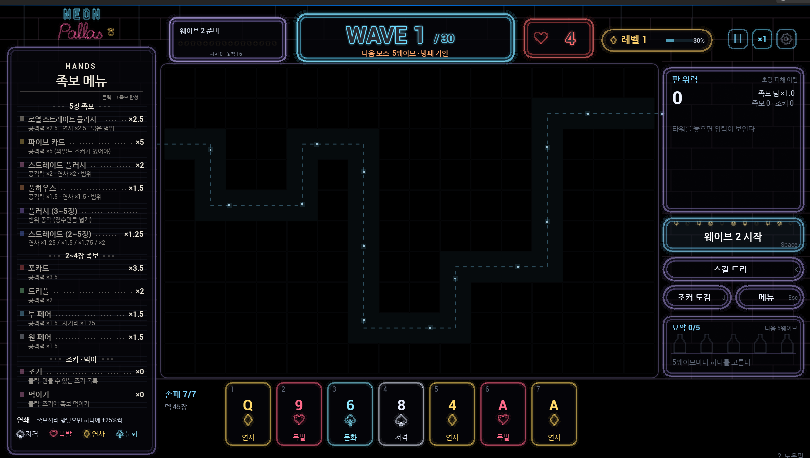
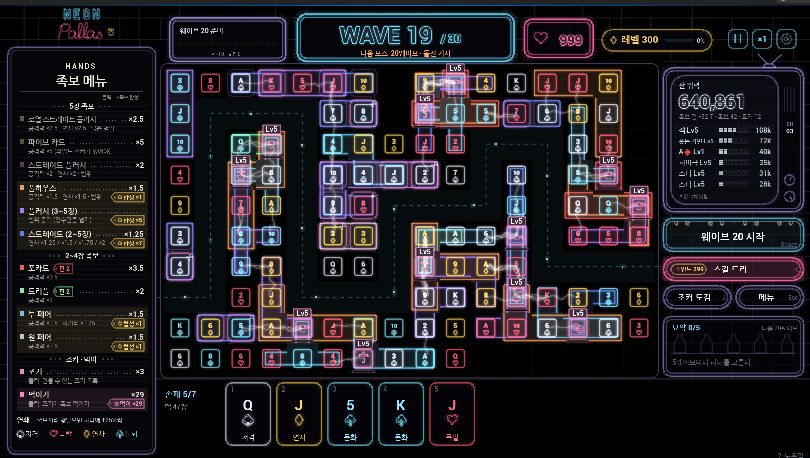
Power card as a black-and-white CRT TV: antenna, knobs, mono phosphor text, block bars, scanlines, rolling band, noise (D-279)

diff --git a/Source/ProjectB/PDBoardPaint.cpp b/Source/ProjectB/PDBoardPaint.cpp
@@ -2033,38 +2033,76 @@ void SPDBoardWidget::PaintPanels(FCanvas& C) const
 		C.Lines(Ro, FLinearColor(1.f, 1.f, 1.f, 0.3f * B), 0.6f); // 흰 심 (D-275)
 		C.Glow(Ri, FLinearColor(Col.R * B * 0.8f, Col.G * B * 0.8f, Col.B * B * 0.8f, 1.f), 1.1f, 0.45f * B);
 	};
-	C.Box(RX, FY, PW, PowCardH, Hex(TEXT("06060b"), 0.6f));
-	Frame2(RX, FY, PW, PowCardH, 12.f, LavP, 0.7f);
-	C.Text(TEXT("판 위력"), RX + 14.f, FY + 22.f, UiTitle, 13.f, 0, true);
-	if (PowerRef > 0.f && PowerSum > 0.f) // 이번 웨이브 시작 때보다 몇 % (위쪽 띠에서 옮김, D-163)
+	// ---- 판 위력 = 흑백 TV (D-279, CRT 시안 D): 연보라 TV 틀 + 토끼 귀 안테나 + 손잡이, 화면은 푸르스름한 흰 형광 한 색
+	//      큰 숫자(속 빈 네온) · 족보 덤 · 순위(이름 + 블록 칸 막대 + 초당 피해), 주사선 · 가장자리 어둡게 · 굴러가는 밝은 띠 · 잡음 점
 	{
-		const float Pct = (PowerSum / PowerRef - 1.f) * 100.f;
-		if (FMath::Abs(Pct) >= 1.f) C.Text(FString::Printf(TEXT("%s%.0f%%"), Pct > 0.f ? TEXT("+") : TEXT(""), Pct), RX + 14.f, FY + 76.f, Pct > 0.f ? Green : Hex(TEXT("ff6a6a")), 10.f, 0, true);
-	}
-	C.Text(TEXT("초당 피해 어림"), RX + PW - 14.f, FY + 22.f, Dim, 9.f, 2);
-	C.Text(CommaNum(FMath::RoundToInt(PowerSum)), RX + 14.f, FY + 58.f, UiValue, 28.f, 0, true, 112.f);
-	{
-		int32 Jokers = 0;
-		for (const auto& KV : G.Towers) Jokers += KV.second.IsJoker();
-		C.Text(TrF(TEXT("족보 덤 ×%.1f"), PowerGain), RX + PW - 14.f, FY + 44.f, Fg, 10.f, 2, false, 90.f);
-		C.Text(TrF(TEXT("족보 %d · 조커 %d"), (int32)G.Synergies.size(), Jokers), RX + PW - 14.f, FY + 60.f, Grey, 10.f, 2, false, 90.f);
-	}
-	if (PowerList.empty()) C.Text(TEXT("타워를 놓으면 위력이 보인다"), RX + 14.f, FY + 100.f, Dim, 10.f, 0, false, PW - 28.f);
-	static const TCHAR* SuitSym[] = {TEXT("♠"), TEXT("♥"), TEXT("♦"), TEXT("♣"), TEXT("★")};
-	for (int32 I = 0; I < PowTopN && I < (int32)PowerList.size(); ++I) // 딜러 순위 (D-164): 이름 · 몫 막대 · 초당 피해 · 몫
-	{
-		auto It = G.Towers.find(PowerList[I].first);
-		if (It == G.Towers.end()) continue;
-		const FPDTower& T = It->second;
-		const float Y = FY + 88.f + I * 20.f;
-		const FLinearColor Col = T.IsJoker() ? JokerPink : SuitColor(T.Card.Suit);
-		const FString Name = T.IsJoker() ? FString::Printf(TEXT("%s Lv%d"), JokerName(T.Joker), T.JLevel)
-			: FString::Printf(TEXT("%s%s Lv%d"), T.Card.IsWild() ? TEXT("") : *RankText(T.Card.Rank), SuitSym[(int)T.Card.Suit], T.Level);
-		const float Share = PowerSum > 0.f ? PowerList[I].second / PowerSum : 0.f;
-		C.Text(Name, RX + 14.f, Y + 4.f, Col, 10.f, 0, true, 84.f);
-		C.Box(RX + 100.f, Y - 4.f, 44.f * Share, 8.f, WithAlpha(Col, 0.4f));
-		C.Lines(FCanvas::RectPoints(RX + 100.f, Y - 4.f, 44.f, 8.f), WithAlpha(Col, 0.5f), 1.f);
-		C.Text(FString::Printf(TEXT("%s · %d%%"), *ShortNum(PowerList[I].second), FMath::RoundToInt(Share * 100.f)), RX + PW - 14.f, Y + 4.f, UiValue, 10.f, 2, false, PW - 160.f);
+		const FLinearColor Mono = Hex(TEXT("dee8f5"));
+		auto MonoA = [&](float A) { return FLinearColor(Mono.R, Mono.G, Mono.B, A); };
+		// 틀
+		C.Box(RX, FY, PW, PowCardH, Hex(TEXT("06060b"), 0.85f));
+		Frame2(RX, FY, PW, PowCardH, 16.f, LavP, 0.8f);
+		const float SX = RX + 12.f, SY = FY + 12.f, SW = PW - 52.f, SH = PowCardH - 24.f;
+		C.Box(SX + 4.f, SY + 4.f, SW - 8.f, SH - 8.f, Hex(TEXT("0b0d14"), 1.f));
+		C.Glow(FCanvas::RoundRectPoints(SX, SY, SW, SH, 22.f), WithAlpha(LavP, 0.85f), 1.5f, 0.5f);
+		{ // 토끼 귀 안테나
+			const float BX = RX + PW - 54.f, BY = FY;
+			C.Glow({FVector2f(BX - 10.f, BY), FVector2f(BX + 10.f, BY), FVector2f(BX + 6.f, BY - 6.f), FVector2f(BX - 6.f, BY - 6.f), FVector2f(BX - 10.f, BY)}, LavP, 1.3f, 0.5f);
+			C.Glow({FVector2f(BX - 3.f, BY - 6.f), FVector2f(BX - 18.f, BY - 22.f)}, LavP, 1.1f, 0.5f);
+			C.Glow({FVector2f(BX + 3.f, BY - 6.f), FVector2f(BX + 20.f, BY - 21.f)}, LavP, 1.1f, 0.5f);
+		}
+		for (int32 K = 0; K < 4; ++K) C.Lines({FVector2f(RX + PW - 30.f + K * 5.f, FY + 30.f), FVector2f(RX + PW - 30.f + K * 5.f, FY + 70.f)}, WithAlpha(LavP, 0.4f), 1.f); // 스피커
+		C.TextCentered(TEXT("CH"), RX + PW - 22.f, FY + 88.f, WithAlpha(LavP, 0.8f), 7.f, true);
+		C.TextCentered(TEXT("03"), RX + PW - 22.f, FY + 100.f, Mono, 9.f, true);
+		for (int32 K = 0; K < 2; ++K) // 손잡이 둘
+		{
+			const FVector2f Kc(RX + PW - 22.f, FY + PowCardH - 50.f + K * 26.f);
+			C.Glow(FCanvas::CirclePoints(Kc, 8.f, 20), LavP, 1.2f, 0.4f);
+			const float A = FMath::DegreesToRadians(-60.f + K * 110.f);
+			C.Lines({Kc, Kc + FVector2f(FMath::Cos(A), FMath::Sin(A)) * 6.f}, LavP, 1.2f);
+		}
+		// 화면 내용
+		C.Text(TEXT("판 위력"), SX + 12.f, SY + 20.f, Mono, 11.f, 0, true);
+		if (PowerRef > 0.f && PowerSum > 0.f) // 이번 웨이브 시작 때보다 몇 % (D-163)
+		{
+			const float Pct = (PowerSum / PowerRef - 1.f) * 100.f;
+			if (FMath::Abs(Pct) >= 1.f) C.Text(FString::Printf(TEXT("%s %s%.0f%%"), Pct > 0.f ? TEXT("▲") : TEXT("▼"), Pct > 0.f ? TEXT("+") : TEXT(""), Pct), SX + SW - 12.f, SY + 20.f, MonoA(0.85f), 9.f, 2, true);
+		}
+		NeonText(C, CommaNum(FMath::RoundToInt(PowerSum)), SX + 12.f, SY + 52.f, Mono, 28.f, 0, 1.f);
+		{
+			int32 Jokers = 0;
+			for (const auto& KV : G.Towers) Jokers += KV.second.IsJoker();
+			C.Text(TrF(TEXT("족보 덤 ×%.1f · 족보 %d · 조커 %d"), PowerGain, (int32)G.Synergies.size(), Jokers), SX + 12.f, SY + 68.f, MonoA(0.6f), 9.f, 0, false, SW - 24.f);
+		}
+		if (PowerList.empty()) C.Text(TEXT("타워를 놓으면 위력이 보인다"), SX + 12.f, SY + 96.f, MonoA(0.55f), 10.f, 0, false, SW - 24.f);
+		static const TCHAR* SuitSym[] = // ♦ 는 글꼴에 없어 빨간 그림 글자로 나와 흑백 화면을 깬다 → ◆ (D-279)
+			 {TEXT("♠"), TEXT("♥"), TEXT("◆"), TEXT("♣"), TEXT("★")};
+		for (int32 I = 0; I < 6 && I < (int32)PowerList.size(); ++I) // 순위: 이름 · 블록 칸 막대(몫) · 초당 피해
+		{
+			auto It = G.Towers.find(PowerList[I].first);
+			if (It == G.Towers.end()) continue;
+			const FPDTower& T = It->second;
+			const float Y = SY + 90.f + I * 17.f;
+			const FString Name = T.IsJoker() ? FString::Printf(TEXT("%s Lv%d"), JokerName(T.Joker), T.JLevel)
+				: FString::Printf(TEXT("%s%s Lv%d"), T.Card.IsWild() ? TEXT("") : *RankText(T.Card.Rank), SuitSym[(int)T.Card.Suit], T.Level);
+			const float Share = PowerSum > 0.f ? PowerList[I].second / PowerSum : 0.f;
+			C.Text(Name, SX + 12.f, Y, MonoA(I == 0 ? 1.f : 0.88f), 10.f, 0, true, 60.f);
+			const int32 Cells = 7, On = FMath::Clamp(FMath::RoundToInt(Share * 25.f), Share > 0.f ? 1 : 0, Cells);
+			for (int32 Cc = 0; Cc < Cells; ++Cc)
+			{
+				const float CX = SX + 76.f + Cc * 7.f;
+				if (Cc < On) C.Box(CX, Y - 8.f, 5.f, 7.f, MonoA(0.85f));
+				else C.Lines(FCanvas::RectPoints(CX, Y - 8.f, 5.f, 7.f), MonoA(0.22f), 1.f);
+			}
+			C.Text(ShortNum(PowerList[I].second), SX + SW - 12.f, Y, MonoA(0.9f), 10.f, 2, true);
+		}
+		C.Text(TEXT("초당 피해 어림"), SX + 12.f, SY + SH - 10.f, MonoA(0.45f), 8.f, 0, false);
+		// 흑백 TV 결: 주사선 → 굴러가는 밝은 띠 → 잡음 점 → 가장자리 어둡게
+		for (float Ly = SY + 6.f; Ly < SY + SH - 6.f; Ly += 3.f) C.Box(SX + 6.f, Ly, SW - 12.f, 1.f, FLinearColor(0.f, 0.f, 0.f, 0.32f));
+		const float BandY = SY + FMath::Fmod(Clock * 22.f, SH - 20.f) + 6.f;
+		for (int32 K = 0; K < 12; ++K) C.Box(SX + 6.f, BandY + K, SW - 12.f, 1.f, MonoA(0.035f * (1.f - FMath::Abs(K - 6) / 6.f)));
+		FRandomStream Ns(FMath::FloorToInt(Clock * 14.f));
+		for (int32 K = 0; K < 36; ++K) C.Box(Ns.FRandRange(SX + 8.f, SX + SW - 8.f), Ns.FRandRange(SY + 8.f, SY + SH - 8.f), 1.f, 1.f, MonoA(Ns.FRandRange(0.12f, 0.35f)));
+		for (int32 K = 0; K < 6; ++K) C.Lines(FCanvas::RoundRectPoints(SX + 2.f + K, SY + 2.f + K, SW - 4.f - 2.f * K, SH - 4.f - 2.f * K, 20.f), FLinearColor(0.f, 0.f, 0.f, 0.12f * (6 - K) / 6.f), 1.f);
 	}
 
 	// ---- 웨이브 시작 (Space)

diff --git a/docs/05-decision-log.md b/docs/05-decision-log.md
@@ -282,3 +282,4 @@
 | D-276 | 2026-11-15 | 레터보드 족보 패널을 다시 화면 아래까지 늘리고 줄 36 으로 (손패가 왼쪽까지 안 오므로 답답하지 않게). 조커 · 먹이기 목록 줄 38. 오른쪽 열은 바닥선에서 끝 그대로 | 사용자: 족보 메뉴는 아래까지 내려도 되지 않나, 답답하다 | 바닥선에서 끝 (D-275) |
 | D-277 | 2026-11-15 | 판 위력 카드 CRT TV 시안 3종 (오른쪽 열 위 자리): A 앰버 모니터(둥근 TV 틀 + 토끼 귀 안테나, 호박색 형광 글자, 순위는 블록 칸 막대, CH 03, 손잡이 둘), B 초록 오실로스코프(눈금 격자 위 초당 피해 파형이 흐름, 짧은 막대 순위), C 컬러 TV(위 색 막대 띠, 숫자는 빨강 · 하늘 어긋난 색번짐, 무늬 색 순위, ON AIR 불). 셋 다 주사선 + 화면 가장자리 어둡게 (tools/neon/crt_mock.py) | 사용자: 판 위력은 옛날 CRT TV 감성으로 | — |
 | D-278 | 2026-11-15 | 판 위력 CRT 시안 D 흑백 TV 추가: 푸르스름한 흰 형광 한 색(회색 단계만), 블록 칸 막대 순위, 주사선 + 화면 가장자리 어둡게 + 천천히 굴러가는 밝은 띠 + 잡음 점, 토끼 귀 안테나 · CH 03 · 손잡이. 판 위 무늬 색과 싸우지 않는 게 장점, 순위의 무늬 색 구분은 기호(♠♥)로만 (crt_mock.py crt_D) | 사용자: 흑백 TV 느낌은? | — |
+| D-279 | 2026-11-15 | 판 위력 카드를 흑백 TV(CRT 시안 D)로 구현: 연보라 TV 틀 + 토끼 귀 안테나 + 스피커 틈 + CH 03 + 손잡이 둘, 볼록한 둥근 화면(어두운 바탕)에 푸르스름한 흰 형광 한 색 — '판 위력' · ▲/▼ 웨이브 시작 대비 % · 큰 숫자(속 빈 네온) · 족보 덤 · 족보 수 · 조커 수 · 순위 6줄(이름 + 블록 칸 막대 7칸 + 초당 피해) · '초당 피해 어림'. 그 위에 주사선(3px) · 천천히 굴러가는 밝은 띠 · 잡음 점(초당 14번 바뀜) · 가장자리 어둡게. 순위 무늬 기호의 ♦ 는 글꼴에 없어 빨간 그림 글자로 나와 ◆ 로 | 사용자: 흑백 TV 시안대로 | 컬러 위력 카드 |
